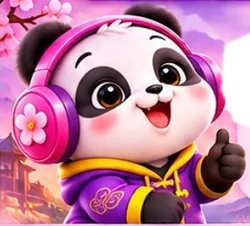
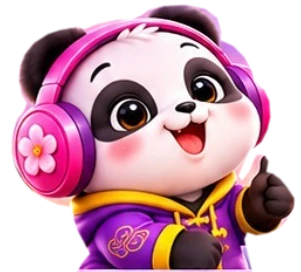
Refine the Panda Go welcome and test preview artwork

diff --git a/preview-hsk2-lesson1-approved.html b/preview-hsk2-lesson1-approved.html
@@ -189,6 +189,37 @@ progress::-webkit-progress-value{background:linear-gradient(#a0ed63,#55bb27 65%,
 @media(max-width:374px){
  .head{padding-inline:8px}.detail nav{margin-inline:22px}main{padding-inline:7px}.test-card{grid-template-columns:25px 58px minmax(0,1fr) 34px;gap:5px}.hero-message{padding-left:14px}.word-row{gap:4px}.tone-row{grid-template-columns:20% minmax(0,1fr) 34px 55px 34px;gap:3px}.tone-row .orb{width:33px;height:33px}
 }
+
+/* Keep the opening illustration and the test hero on single, continuous scenes. */
+body:has(.app[data-view="1"]){background:radial-gradient(ellipse at 50% 15%,#fbe0f9 0,#ecd2f7 75%)}
+.app[data-view="1"]{min-height:min(100svh,630px);display:flex;flex-direction:column}
+.app[data-view="1"]::before{background:linear-gradient(180deg,#f9ddfa 0%,#f8d7f5 16%,#ecbdf9 47%,#ffd9f2 79%,#fbc9ef 100%)}
+.app[data-view="1"] .head{padding-bottom:3px;background:linear-gradient(#fae4fc,#f6cff7 80%,#f6cff700)}
+.app[data-view="1"] main{display:flex;flex:1;flex-direction:column;justify-content:center}
+.app[data-view="1"] .intro-hero{position:relative;isolation:isolate;flex:1;min-height:166px;max-height:246px;grid-template-columns:50% 50%;align-items:center;background:none;overflow:visible}
+.app[data-view="1"] .intro-hero::before{content:"";position:absolute;inset:-8px -7px -12px;z-index:-1;background:linear-gradient(90deg,#edb3f479,#f9c6f22e 55%,#f6d0f853),url(assets/hsk2-lesson1-preview/hero-scenery.webp) center 53%/cover;mask-image:linear-gradient(transparent,#000 12%,#000 84%,transparent)}
+.app[data-view="1"] .intro-hero img{width:106%;max-width:none;aspect-ratio:auto;object-fit:contain;align-self:center;margin-left:-2%;border-radius:0;filter:drop-shadow(0 3px 4px #7c307c63)}
+.app[data-view="1"] .intro-hero .cloud{margin-left:-22px;padding-block:24px}
+.app[data-view="1"] .intro-hero h1{font-size:clamp(30px,9vw,39px)}
+.app[data-view="1"] .features{margin-top:19px;padding-bottom:8px}
+.app[data-view="1"] .feature-grid div{padding-block:6px 8px}
+.app[data-view="1"] .feature-grid img{width:46px;height:38px;mix-blend-mode:normal;filter:drop-shadow(0 2px 1px #a7518e35)}
+.app[data-view="1"] footer{padding-top:6px;padding-bottom:16px}
+.app[data-view="1"] footer .primary{min-height:45px;font-size:clamp(14px,4.5vw,17px)}
+.app[data-view="1"] .head::after,.app[data-view="3"] .head::after{z-index:0;pointer-events:none;opacity:.66}
+.app[data-view="1"] .head nav,.app[data-view="3"] .head nav{z-index:1}
+.app[data-view="3"]::before{background:linear-gradient(#dfa7ef 0%,#f4c3ed 26%,#ffdeef 33%,#ffdfef 100%)}
+.app[data-view="3"] .quiz-hero{grid-template-columns:47% 53%;min-height:144px;background:linear-gradient(90deg,#eaa5e975,#f8bfe964 68%,#f5afe87d),url(assets/hsk2-lesson1-preview/hero-scenery.webp) center 53%/cover}
+.app[data-view="3"] .quiz-hero > img:first-child{width:96%;max-height:145px;margin-left:3px;filter:drop-shadow(0 2px 5px #71386d66)}
+.app[data-view="3"] .quiz-hero .hero-message{margin:4px 12px 8px -13px;border-radius:25px 28px 25px 24px}
+.app[data-view="3"] .quiz-hero .hero-message p{padding-right:32px;font-size:12px}
+.app[data-view="3"] .quiz-clipboard{position:absolute;z-index:2;bottom:2px;right:5px;width:48px;pointer-events:none;filter:drop-shadow(0 2px 2px #84297566)}
+.app[data-view="3"] .test-card{background:linear-gradient(160deg,#fffaff,#fff2fa 52%,#ffdef0);border-color:#fff8fc;box-shadow:0 3px 6px #b65c9559,inset 0 1px 2px white}
+.app[data-view="3"] .reward{margin-top:11px}
+.app[data-view="3"] .primary.large{margin-bottom:11px}
+footer[hidden]{display:none}
+@media(max-height:640px){.app[data-view="1"] .intro-hero{min-height:148px}.app[data-view="1"] .intro-hero img{max-height:171px}.app[data-view="1"] .features{margin-top:23px}}
+
 </style>
 </head>
 <body>
@@ -381,17 +412,19 @@ function render(resetScroll = false) {
   const step = state.step;
   const detailed = step === 3 || step === 6;
   app.classList.toggle('detail',detailed);
+  app.dataset.view = step;
+  next.parentElement.hidden = step === 3 && state.quizTest === null;
   document.getElementById('head-label').textContent = 'HSK 2 · Урок 1 · Шаг ' + step + ' из 8';
   nav.innerHTML = titles.map((title,i) => '<button type="button" class="nav-step" data-step="' + (i+1) +
     '" aria-current="' + (step === i+1 ? 'step' : 'false') + '" aria-label="Шаг ' + (i+1) + ' · ' + title + '"><span>' + (i+1) + '</span></button>').join('');
   workspace.innerHTML = [intro,newWords,quiz,grammar,day,tones,chat,finish][step-1]();
   back.hidden = detailed || step === 1;
-  next.textContent = step === 8 ? 'К началу ↻' : step === 3 && state.quizTest !== null ? 'К списку тестов' : 'Дальше · ' + titles[step] + ' →';
+  next.textContent = step === 1 ? '▷ Дальше: Новые слова →' : step === 8 ? 'К началу ↻' : step === 3 && state.quizTest !== null ? 'К списку тестов' : 'Дальше · ' + titles[step] + ' →';
   if (resetScroll) window.scrollTo(0,0);
 }
 function intro() {
   const features = ['6 слов','5 мини-тестов','грамматика','распорядок','произношение','диалог'];
-  return '<div class="intro-hero"><img src="' + asset + 'hero-reading.webp" alt="Панда с красной книгой">' +
+  return '<div class="intro-hero"><img src="' + decoration + 'intro-panda.webp" alt="Панда с красной книгой">' +
     '<div class="cloud"><h1 lang="zh-Hans">我的一天</h1><span class="py">Wǒ de yì tiān</span><b>Мой день</b></div></div>' +
     '<section class="features"><h2 class="ribbon">✦ Тебя ждут ✦</h2><div class="feature-grid">' +
     features.map((label,i) => '<div>' + art('feature-' + (i+1)) + label + '</div>').join('') + '</div></section>';
@@ -406,12 +439,13 @@ function newWords() {
 
 function hero(kind,step,title,subtitle) {
   return '<div class="detail-hero ' + kind + '-hero">' + art(kind + '-panda') +
-    '<div class="hero-message"><span class="tag">Шаг ' + step + '</span><h1>' + title + '</h1><p>' + subtitle + '</p></div></div>';
+    '<div class="hero-message"><span class="tag">Шаг ' + step + '</span><h1>' + title + '</h1><p>' + subtitle + '</p></div>' +
+    (kind === 'quiz' ? '<img class="quiz-clipboard" src="' + decoration + 'quiz-clipboard.webp" alt="">' : '') + '</div>';
 }
 
 function quiz() {
   if (state.quizTest !== null) return question();
-  return hero('quiz',3,'Проверь слова!','Пять интерактивных тестов по словам урока.') +
+  return hero('quiz',3,'Проверь слова!','5 интерактивных тестов, чтобы лучше запомнить новые слова.') +
     '<div class="test-list">' + tests.map((title,i) => {
       const total = correctCount(i);
       return '<button type="button" class="test-card" data-test="' + i + '"><span class="badge">' + (i+1) + '</span>' +
